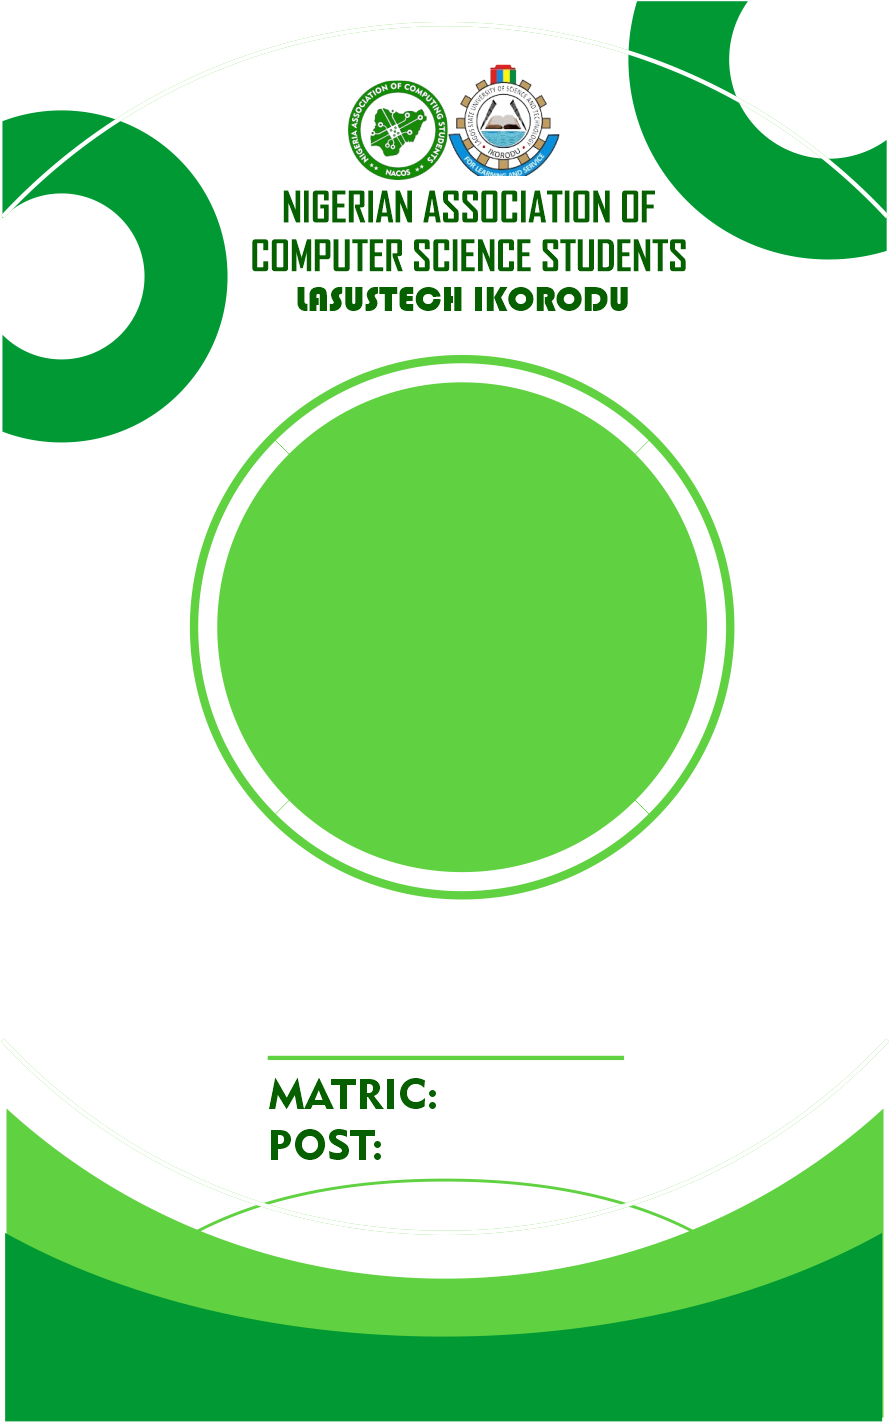
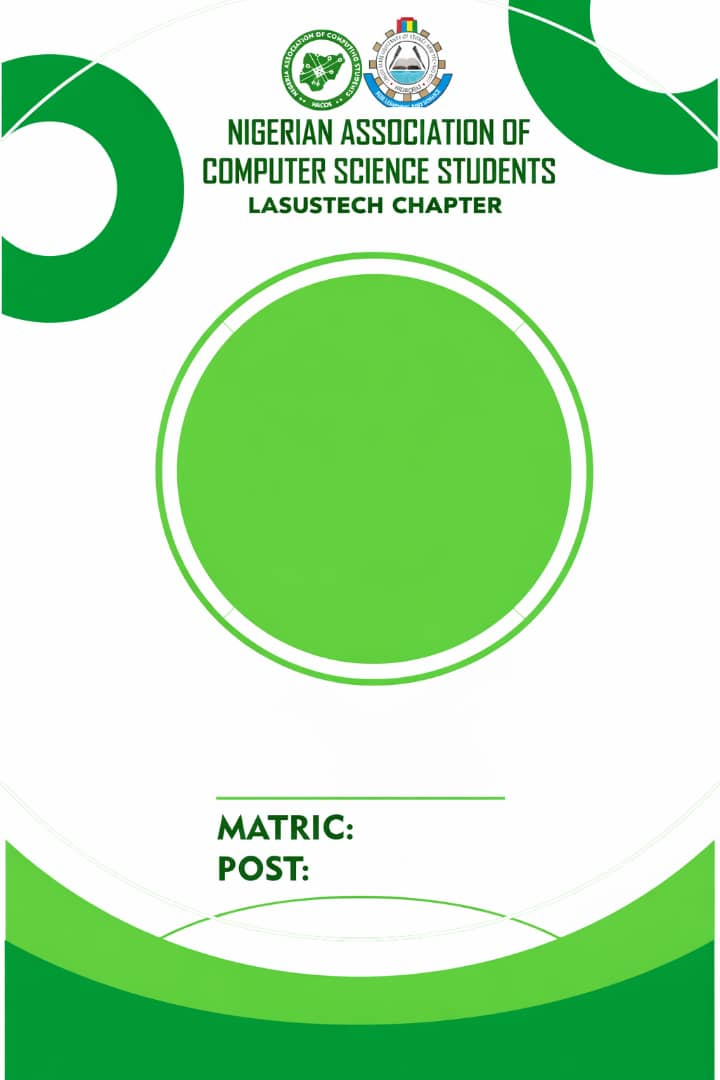
Update ID card layout coordinates for the new template design and remove temporary generation scripts

diff --git a/generate.php b/generate.php
@@ -8,10 +8,6 @@ if (function_exists('ini_set')) {
     @ini_set('display_errors', '0');
 }
 
-if (empty($_SESSION['admin_user_id'])) {
-    http_response_code(403);
-    exit('Admin login required.');
-}
 
 function loadStudents(PDO $pdo): array
 {
@@ -330,10 +326,10 @@ function renderCard(array $student, string $outputPath): bool
     // Circle geometry (from template analysis):
     // Green fill: x=208→686, y=356→870
     // Center: x≈447, y≈613  Radius≈230
-    // Circle geometry (Increased size and shifted down slightly):
-    $circleCX = 457;
-    $circleCY = 625; // moved down from 615
-    $circleRadius = 248; // increased from 240 for a slightly larger fit
+    // Circle geometry (New Template):
+    $circleCX = 374;
+    $circleCY = 469;
+    $circleRadius = 215;
 
     overlayCircularPhoto($card, $photo, $circleCX, $circleCY, $circleRadius);
     imagedestroy($photo);
@@ -355,51 +351,43 @@ function renderCard(array $student, string $outputPath): bool
 
     $blackFont = $fonts['black'];  // heaviest weight for surname
     $boldFont = $fonts['bold'];
-    $regularFont = $fonts['regular'];
-    $maxTextWidth = 720; // max horizontal space for text
+    $maxTextWidth = 600; // max horizontal space for text
 
     // ─────────────────────────────────────────────
     // 3. Draw student name (centered, below circle)
     // ─────────────────────────────────────────────
-    // Reference measurements:
-    //   Circle bottom: y≈898, white gap then surname at y=913→980 (67px tall)
-    //   Other names: y=994→1029 (35px tall)
-    //   Separator line: y=1055
-    //
-    // On the design template the green circle fill ends at y≈870,
-    // with the circle border/anti-alias ending at y≈898.
-    // Surname baseline at y≈975, other names baseline at y≈1025.
+    // Updated baselines for 720x1080 template:
+    // Surname baseline: y=735
+    // Other names: baseline: y=775
+    // Separator line is at y=798
 
     // First, cover the existing "MATRIC:" and "POST:" labels with white
-    // so we can redraw them centered with values
     $white = imagecolorallocate($card, 255, 255, 255);
-    imagefilledrectangle($card, 200, 1065, 600, 1165, $white);
+    // Covering area below the line between x=180 and x=570 (further reduced height)
+    imagefilledrectangle($card, 180, 802, 570, 915, $white);
 
-    // Draw surname — extra bold (Arial Black + faux-bold passes)
-    [$surnameSize] = fitText($surname, $blackFont, $maxTextWidth, 65, 35);
-    drawCenteredText($card, $surnameSize, 975, $darkGreen, $blackFont, $surname, 2);
+    // Draw surname
+    [$surnameSize] = fitText($surname, $blackFont, $maxTextWidth, 48, 28);
+    drawCenteredText($card, $surnameSize, 735, $darkGreen, $blackFont, $surname, 3);
 
-    // Draw other names — bold but lighter weight than surname
+    // Draw other names
     if ($otherNames !== '') {
-        [$otherSize] = fitText($otherNames, $boldFont, $maxTextWidth, 42, 22);
-        drawCenteredText($card, $otherSize, 1030, $darkGreen, $boldFont, $otherNames);
+        [$otherSize] = fitText($otherNames, $boldFont, $maxTextWidth, 31, 16);
+        drawCenteredText($card, $otherSize, 775, $darkGreen, $boldFont, $otherNames);
     }
 
     // ─────────────────────────────────────────────
     // 4. Draw MATRIC and POST lines (centered with values)
     // ─────────────────────────────────────────────
-    // The separator line is at ~y=1055 on the template (already drawn)
-    // MATRIC goes below separator, POST below that
-
     // Build combined strings like the reference
     $matricLine = "MATRIC: " . $matric;
     $postLine = "POST: " . $post . ", " . $level . "Lvl";
 
-    [$matricSize] = fitText($matricLine, $boldFont, $maxTextWidth, 34, 18);
-    drawCenteredText($card, $matricSize, 1115, $darkGreen, $boldFont, $matricLine);
+    [$matricSize] = fitText($matricLine, $boldFont, $maxTextWidth, 26, 16);
+    drawCenteredText($card, $matricSize, 840, $darkGreen, $boldFont, $matricLine);
 
-    [$postSize] = fitText($postLine, $boldFont, $maxTextWidth, 32, 18);
-    drawCenteredText($card, $postSize, 1160, $darkGreen, $boldFont, $postLine);
+    [$postSize] = fitText($postLine, $boldFont, $maxTextWidth, 24, 16);
+    drawCenteredText($card, $postSize, 890, $darkGreen, $boldFont, $postLine);
 
     // ─────────────────────────────────────────────
     // 5. Save output
@@ -429,65 +417,72 @@ function streamDownload(string $path, string $contentType, string $filename): vo
     exit;
 }
 
-$students = loadStudents($pdo);
-if ($students === []) {
-    http_response_code(400);
-    exit('No students found for this generation request.');
-}
-
-$tmpFiles = [];
-foreach ($students as $student) {
-    $tempPath = sys_get_temp_dir() . '/id_card_' . $student['id'] . '_' . uniqid('', true) . '.png';
-    if (renderCard($student, $tempPath)) {
-        // Mark as generated in DB
-        $stmtUpdate = $pdo->prepare('UPDATE students SET is_generated = 1 WHERE id = ?');
-        $stmtUpdate->execute([$student['id']]);
-
-        $tmpFiles[] = [
-            'path' => $tempPath,
-            'name' => preg_replace('/[^A-Za-z0-9_-]/', '_', $student['matric_no']) . '.png',
-        ];
+if (basename(__FILE__) === basename($_SERVER['SCRIPT_FILENAME'] ?? '')) {
+    if (empty($_SESSION['admin_user_id'])) {
+        http_response_code(403);
+        exit('Admin login required.');
     }
-}
+    $students = loadStudents($pdo);
+    if ($students === []) {
+        http_response_code(400);
+        exit('No students found for this generation request.');
+    }
 
-if ($tmpFiles === []) {
-    http_response_code(500);
-    exit('Could not generate cards. Check student images and template files.');
-}
+    $tmpFiles = [];
+    foreach ($students as $student) {
+        $tempPath = sys_get_temp_dir() . '/id_card_' . $student['id'] . '_' . uniqid('', true) . '.png';
+        if (renderCard($student, $tempPath)) {
+            // Mark as generated in DB
+            $stmtUpdate = $pdo->prepare('UPDATE students SET is_generated = 1 WHERE id = ?');
+            $stmtUpdate->execute([$student['id']]);
 
-if (count($tmpFiles) === 1) {
-    $file = $tmpFiles[0];
-    register_shutdown_function(static function () use ($file): void {
-        if (file_exists($file['path'])) {
-            unlink($file['path']);
+            $tmpFiles[] = [
+                'path' => $tempPath,
+                'name' => preg_replace('/[^A-Za-z0-9_-]/', '_', $student['matric_no']) . '.png',
+            ];
         }
-    });
-    streamDownload($file['path'], 'image/png', $file['name']);
-}
-
-$zipPath = sys_get_temp_dir() . '/id_cards_' . time() . '_' . uniqid('', true) . '.zip';
-$zip = new ZipArchive();
-if ($zip->open($zipPath, ZipArchive::CREATE | ZipArchive::OVERWRITE) !== true) {
-    foreach ($tmpFiles as $tmp) {
-        unlink($tmp['path']);
     }
-    http_response_code(500);
-    exit('Failed to create ZIP file.');
-}
 
-foreach ($tmpFiles as $tmp) {
-    $zip->addFile($tmp['path'], $tmp['name']);
-}
-$zip->close();
+    if ($tmpFiles === []) {
+        http_response_code(500);
+        exit('Could not generate cards. Check student images and template files.');
+    }
 
-register_shutdown_function(static function () use ($tmpFiles, $zipPath): void {
-    foreach ($tmpFiles as $tmp) {
-        if (file_exists($tmp['path'])) {
+    if (count($tmpFiles) === 1) {
+        $file = $tmpFiles[0];
+        register_shutdown_function(static function () use ($file): void {
+            if (file_exists($file['path'])) {
+                unlink($file['path']);
+            }
+        });
+        streamDownload($file['path'], 'image/png', $file['name']);
+    }
+
+    $zipPath = sys_get_temp_dir() . '/id_cards_' . time() . '_' . uniqid('', true) . '.zip';
+    $zip = new ZipArchive();
+    if ($zip->open($zipPath, ZipArchive::CREATE | ZipArchive::OVERWRITE) !== true) {
+        foreach ($tmpFiles as $tmp) {
             unlink($tmp['path']);
         }
+        http_response_code(500);
+        exit('Failed to create ZIP file.');
     }
-    if (file_exists($zipPath)) {
-        unlink($zipPath);
+
+    foreach ($tmpFiles as $tmp) {
+        $zip->addFile($tmp['path'], $tmp['name']);
     }
-});
-streamDownload($zipPath, 'application/zip', 'id_cards_' . date('Ymd_His') . '.zip');
+    $zip->close();
+
+    register_shutdown_function(static function () use ($tmpFiles, $zipPath): void {
+        foreach ($tmpFiles as $tmp) {
+            if (file_exists($tmp['path'])) {
+                unlink($tmp['path']);
+            }
+        }
+        if (file_exists($zipPath)) {
+            unlink($zipPath);
+        }
+    });
+    streamDownload($zipPath, 'application/zip', 'id_cards_' . date('Ymd_His') . '.zip');
+}
+

diff --git a/lookup_student.php b/lookup_student.php
@@ -22,7 +22,7 @@ if (!$student) {
     echo json_encode([
         'success' => true,
         'exists' => false,
-        'message' => 'Matric number not found. You can continue with a new submission.',
+        'message' => 'You can continue with a new submission.',
     ]);
     exit;
 }
